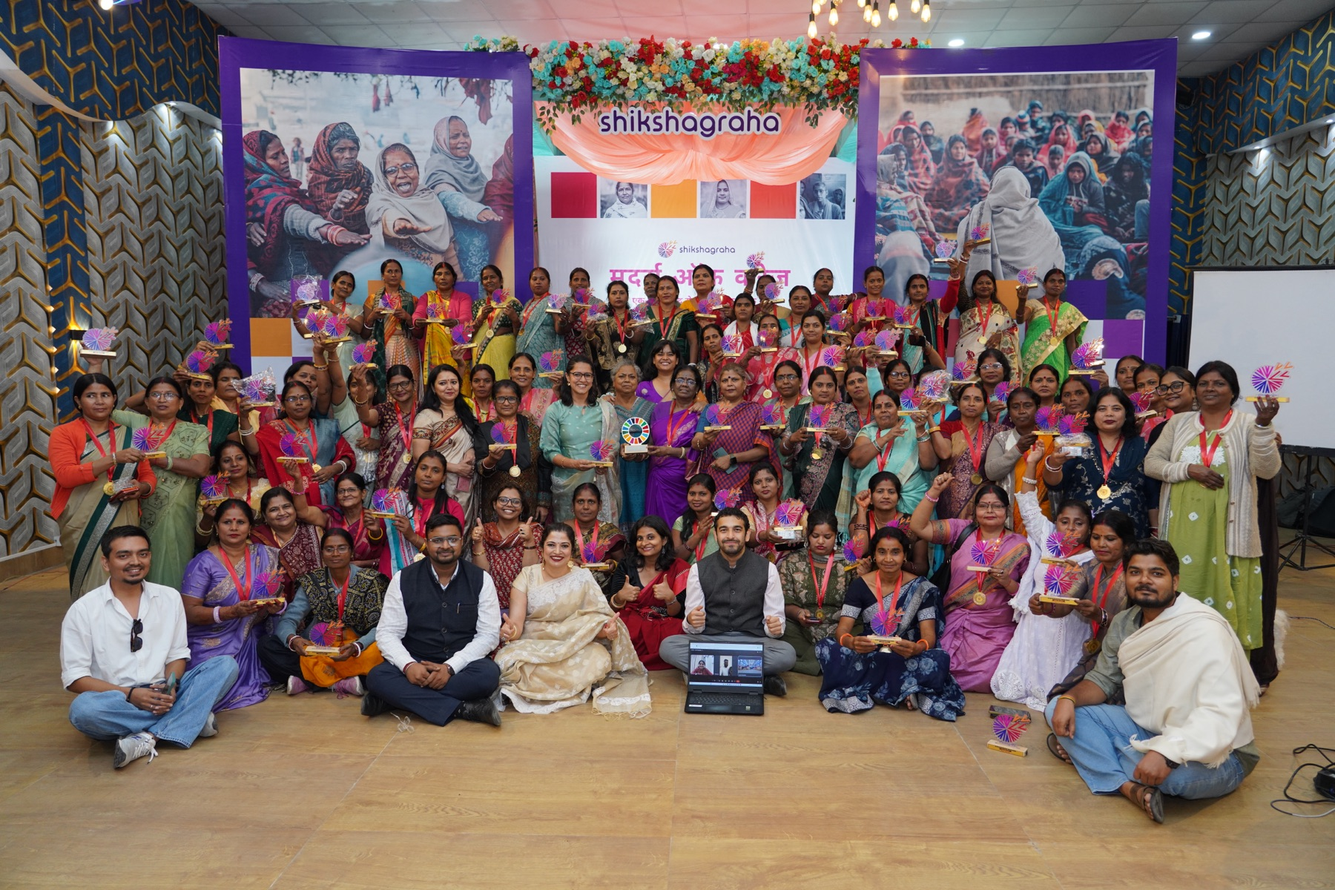
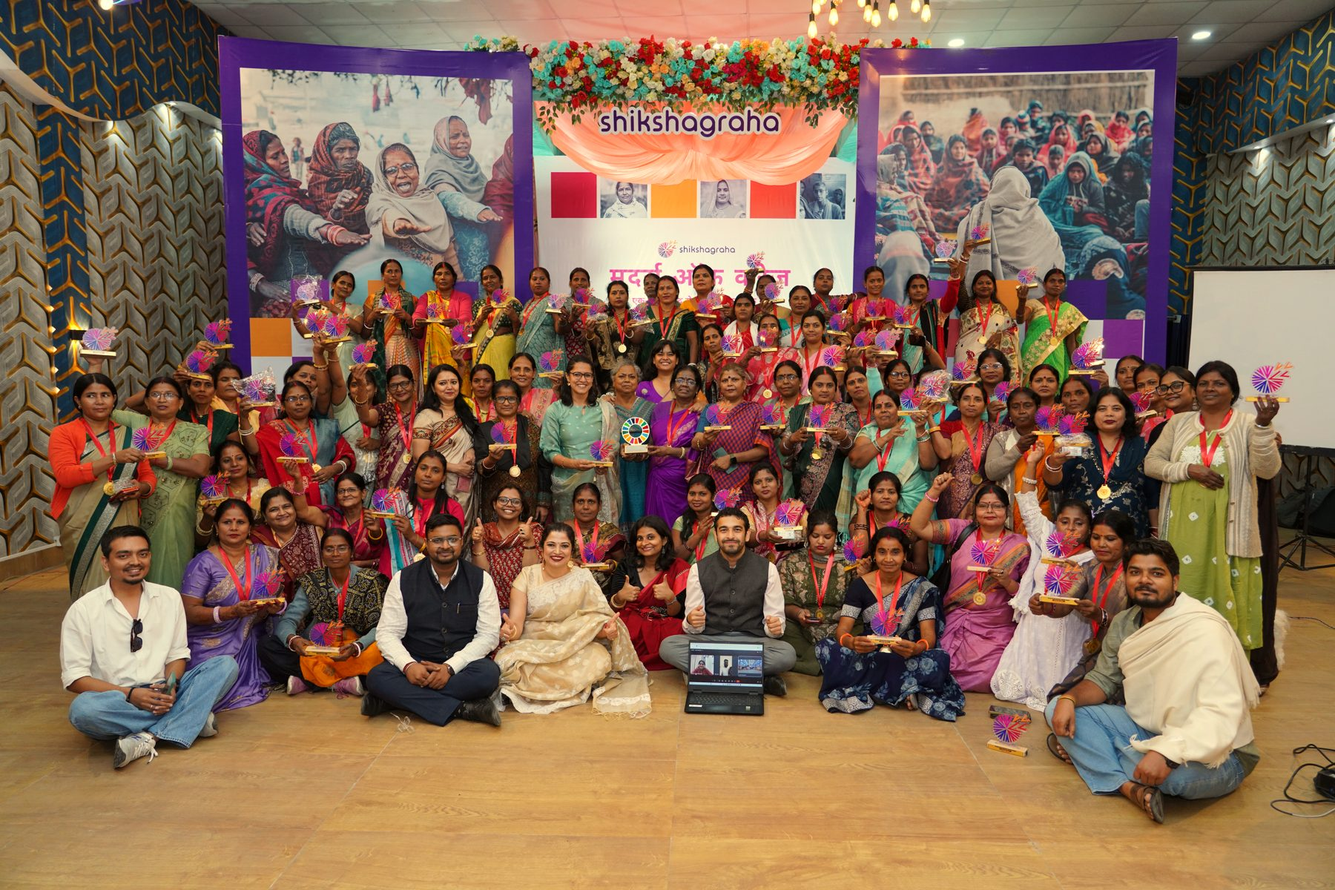
Refresh photos: Cannes selfies on Education, warm SDG group photo, trim Cannes collage, new About photo

diff --git a/css/style.css b/css/style.css
@@ -135,7 +135,7 @@ p { margin: 0; }
 .hl-collage figure { margin: 0; border-radius: 14px; overflow: hidden; }
 .hl-collage img { width: 100%; height: 100%; object-fit: cover; transition: transform .7s var(--ease); }
 .hl-collage figure:hover img { transform: scale(1.05); }
-.hl-collage .tall { aspect-ratio: 1/2; }
+.hl-collage .tall { grid-column: span 2; aspect-ratio: 3/4; }
 .hl-collage .tall:nth-child(even) { transform: translateY(36px); }
 .hl-collage .wide { grid-column: span 2; aspect-ratio: 16/10; margin-top: 36px; }
 
@@ -195,7 +195,8 @@ a.card:hover .arrow { transform: translate(3px, -3px); }
 /* about */
 .about { display: grid; grid-template-columns: .8fr 1.2fr; gap: 70px; align-items: start; }
 .about-head h2 { font-size: clamp(2.4rem, 5vw, 4rem); margin-bottom: 36px; }
-.about-photo { width: 70%; aspect-ratio: 1; object-fit: cover; border-radius: 50%; }
+.about-photo { width: 82%; aspect-ratio: 4/5; object-fit: cover; object-position: center 45%; border-radius: 24px; box-shadow: 16px 16px 0 var(--red); transform: rotate(-2deg); transition: transform .6s var(--ease); }
+.about-photo:hover { transform: rotate(0deg); }
 .tiles { display: grid; grid-template-columns: repeat(2, 1fr); gap: 12px; margin-bottom: 26px; }
 .tile { background: #fff; border-radius: 16px; padding: 22px 24px; border: 1px solid var(--line); transition: border-color .2s, transform .3s var(--ease); }
 .tile:hover { border-color: var(--red); transform: translateY(-3px); }
@@ -229,8 +230,8 @@ a.card:hover .arrow { transform: translate(3px, -3px); }
 .ach:hover { transform: translateY(-5px); }
 .ach.big { grid-column: span 2; grid-row: span 2; }
 .ach-img { aspect-ratio: 4/3; overflow: hidden; }
-.ach-collage { flex: 1; min-height: 340px; display: grid; grid-template-columns: repeat(3, 1fr); gap: 4px; overflow: hidden; }
-.ach-collage img { width: 100%; height: 100%; object-fit: cover; object-position: center 35%; }
+.ach-collage { flex: none; aspect-ratio: 9/4; display: grid; grid-template-columns: repeat(3, 1fr); gap: 4px; overflow: hidden; }
+.ach-collage img { width: 100%; height: 100%; object-fit: cover; }
 .ach-img img { width: 100%; height: 100%; object-fit: cover; }
 .ach-body { padding: 24px; }
 .ach-year { font-size: .74rem; font-weight: 600; letter-spacing: .12em; text-transform: uppercase; color: var(--red); margin-bottom: 8px; }
@@ -343,6 +344,6 @@ a.card:hover .arrow { transform: translate(3px, -3px); }
   .degree { grid-template-columns: 1fr; gap: 16px; }
   .degree-logo { width: 72px; height: 72px; padding: 10px; border-radius: 16px; }
   .ach.big { grid-column: auto; }
-  .ach-collage { min-height: 300px; }
+  .ach.big .ach-body { flex: 1; }
   .foot-links { gap: 14px; flex-wrap: wrap; }
 }

diff --git a/js/data.js b/js/data.js
@@ -36,7 +36,7 @@ const HOME_ROLES = [
 ];
 
 const CANNES = {
-  photos: [S + "rc_1.jpg", S + "rc_3.jpg", S + "rc_2.jpg", S + "rc_4.jpg"],
+  photos: [S + "rc_1.jpg", S + "rc_3.jpg"],
   moments: [S + "ses_1.jpg", S + "fr_1.jpg"],
   pressUrl: "https://aninews.in/news/business/indias-only-sdg-lions-shortlist-at-cannes-2026-comes-from-a-grassroots-education-movement-in-bihar20260627133645/",
 };
@@ -107,7 +107,7 @@ const EDUCATION = [
 ];
 
 const ACHIEVEMENTS = [
-  { year: "2026", title: "ERA Cohort, Cannes Lions", text: "Selected for the Equity, Representation and Accessibility cohort at the International Festival of Creativity in France.", photos: [S + "rc_1.jpg", S + "rc_3.jpg", S + "rc_2.jpg"] },
+  { year: "2026", title: "ERA Cohort, Cannes Lions", text: "Selected for the Equity, Representation and Accessibility cohort at the International Festival of Creativity in France.", photos: [S + "cannes_sel_1.jpg", S + "cannes_sel_2.jpg", S + "cannes_sel_3.jpg"] },
   { year: "2024 to 2025", title: "RASTA Fellow", text: "Fellowship for promoting constitutional literacy.", img: S + "ach_rasta.jpg" },
   { title: "Alumni Incubator Accelerator", text: "Selected by Azim Premji University.", img: S + "ach_incubator.jpg" },
   { title: "National Conference paper", text: "“Can Constitutional Morality lead to improved civic engagement?” selected for the National Conference at Kerala University.", img: S + "ach_conference.jpg" },

diff --git a/index.html b/index.html
@@ -116,7 +116,7 @@
     <div class="wrap about">
       <div class="about-head reveal">
         <h2>About me, <em>in short</em></h2>
-        <img data-photo src="" alt="Sushant Kumar" class="about-photo">
+        <img src="assets/img/story/about_action.jpg" alt="Sushant Kumar talking with schoolgirls in a school courtyard" class="about-photo" loading="lazy">
       </div>
       <div>
         <div class="tiles" id="about-tiles"></div>
